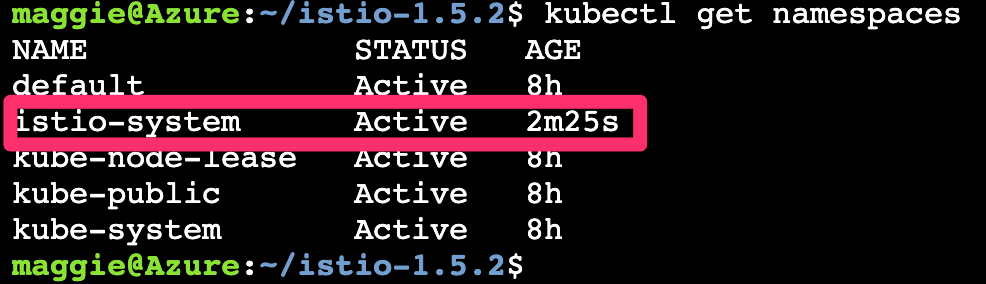
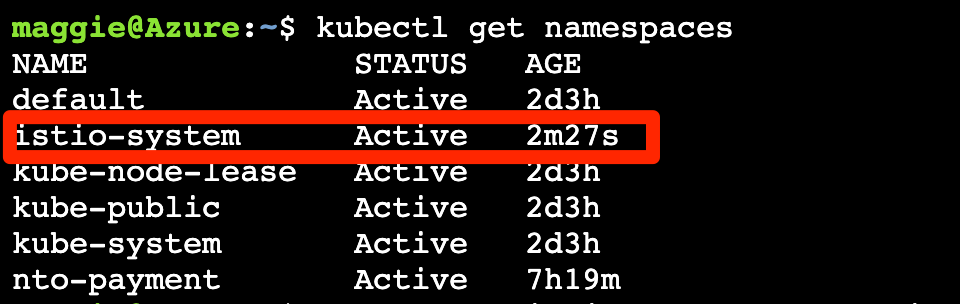
Updated STEP 5-8

diff --git a/README.md b/README.md
@@ -112,7 +112,7 @@ kubectl get namespaces
 
 - To install **Istio** we will be using the **Istio CLI**. For completed instructions [Istio Docs](https://istio.io/docs/setup/install/istioctl/)
 
-- Use the following command to download **Istio CLI** into your directory of choice and supported by ASM (1.5.2 at this time).
+- Use the following command to download **Istio CLI** into your directory of choice and supported by ASM (1.4.6 at this time).
 
 ```bash
 curl -L https://istio.io/downloadIstio | ISTIO_VERSION=<x.x.x> sh -
@@ -120,13 +120,13 @@ curl -L https://istio.io/downloadIstio | ISTIO_VERSION=<x.x.x> sh -
 
 ![](images/image17.png)
 
-- Change into newly downloaded directory (the Istio version downloaded)
+- Change into newly downloaded directory (the Istio version downloaded and to be installed)
 
 ```bash
 cd istio-<x.x.x>/
 ```
 
-- Add current directly to path
+- Add current directory directly to path
 
 ```bash
 export PATH=$PWD/bin:$PATH
@@ -149,7 +149,7 @@ istioctl manifest apply --set profile=demo --set values.global.disablePolicyChec
 kubectl get namespaces
 ```
 
-![](images/image21.png)
+![](images/image20.png)
 
 <a id="deploydemo"></a>
 ## Deploy Demo Application
@@ -230,8 +230,16 @@ kubectl -n istio-system get cm istio -o yaml | sed -e 's/disableMixerHttpReports
 
 - Download the latest Anypoint Service Mesh CLI and make it executable
 
+Download from Staging environment (STGX) for Pre-GA:
+
 ```bash
-curl -Ls http://anypoint.mulesoft.com/servicemesh/xapi/v1/install > asmctl && chmod +x asmctl
+mkdir -p $HOME/.asm && curl -Ls https://stgx.anypoint.mulesoft.com/servicemesh/xapi/v1/install > $HOME/.asm/asmctl && chmod +x $HOME/.asm/asmctl && export PATH=$PATH:$HOME/.asm
+```
+
+Download from GA:
+
+```bash
+mkdir -p $HOME/.asm && curl -Ls http://anypoint.mulesoft.com/servicemesh/xapi/v1/install > $HOME/.asm/asmctl && chmod +x $HOME/.asm/asmctl && export PATH=$PATH:$HOME/.asm
 ```
 
 - Since ASM is Pre-GA we will be using a staging environment. To have the **asmctl** connect to the correct environment set the variable **SERVICEMESH_PLATFORM_URI**
@@ -251,7 +259,7 @@ export SERVICEMESH_PLATFORM_URI=https://stgx.anypoint.mulesoft.com
 ./asmctl install
 ```
 
-![](images/imageX.png)
+![](images/image28.png)
 
 - Verify that Anypoint Service Mesh has been installed correctly with the following command
 
@@ -259,7 +267,7 @@ export SERVICEMESH_PLATFORM_URI=https://stgx.anypoint.mulesoft.com
 kubectl get pods -n service-mesh
 ```
 
-![](images/imageX.png)
+![](images/image29.png)
 
 ### **STEP 9**: Install Anypoint Service Mesh Adapter
 
@@ -311,7 +319,7 @@ asmctl api list
 
 - You can also verify that the API's have been created in Anypoint Platform. Go to Anypoint Platform and navigate to **API Manager**
 
-    ![](images/image28.png)
+    ![](images/imageX.png)
 
 ### **STEP 11**: Binding API's with Services
 
